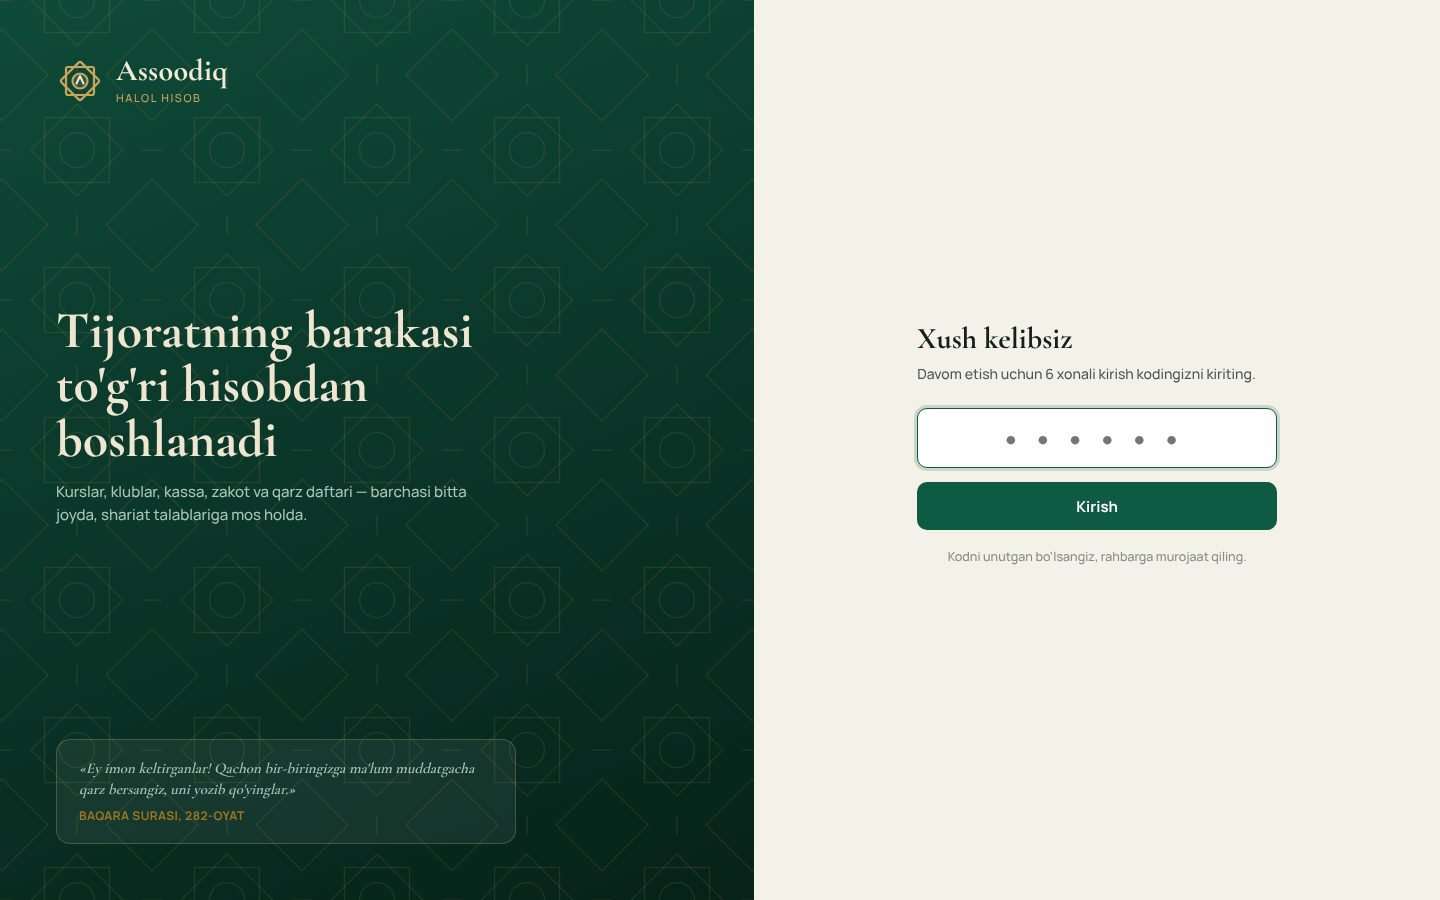
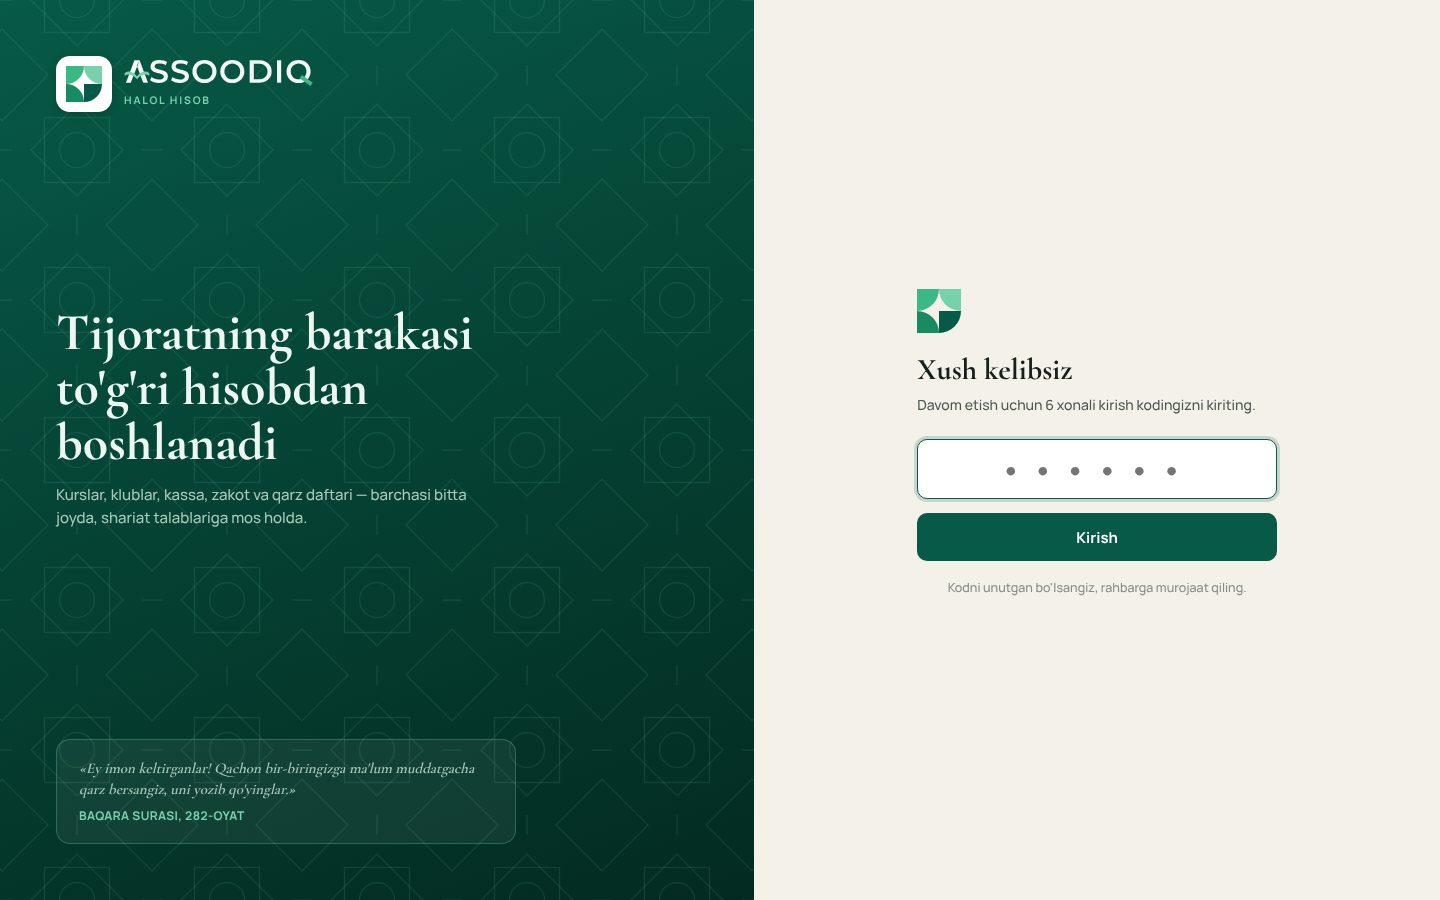
feat(brand): Assoodiq logotipi va brend ranglari
- Logo vektor (SVG) ko'rinishda qayta chizildi: belgi, yozuv (to'q/oq), favicon,
  apple-touch-icon; yozuv shablonga inline qo'yiladi va mavzuga moslashadi
- Yon panel, mobil sarlavha va kirish sahifasida yangi logo
- Brend ranglari logodan olindi (#065A47, #188B63, #3CB885, #78D1AB);
  yon panel urg'usi oltindan yalpiz yashilga o'tdi
- scripts/make_logo.py — logotip generatori; README va skrinshotlar yangilandi

Claude-Session: https://claude.ai/code/session_01DkcMtNmmPnFdSFcGHH43mz

diff --git a/static/css/app.css b/static/css/app.css
@@ -10,10 +10,12 @@
   --txt: #15201B;
   --txt2: #4B5852;
   --txt3: #848E88;
-  --brand: #0F5A43;
-  --brand-strong: #0A4131;
-  --brand-bg: #E2EEE8;
-  --brand-txt: #0E5841;
+  --brand: #065A47;
+  --brand-strong: #04473A;
+  --brand-bg: #E0F1E9;
+  --brand-txt: #065A47;
+  --mint: #78D1AB;
+  --logo-txt: #065A47;
   --gold: #9C7426;
   --gold-soft: #C9A45C;
   --gold-bg: #F4EBD7;
@@ -25,12 +27,12 @@
   --chart-in: #108A60;
   --chart-out: #B8801C;
   --grid: #ECE6DA;
-  --hero1: #0F5A43;
-  --hero2: #0A4131;
-  --side-bg: #0C3B2D;
-  --side-bg2: #082C21;
-  --side-txt: #D9E7E0;
-  --side-txt2: #8FB3A3;
+  --hero1: #0A6650;
+  --hero2: #054536;
+  --side-bg: #064A3A;
+  --side-bg2: #033227;
+  --side-txt: #DCEDE5;
+  --side-txt2: #93BFAC;
   --shadow: 0 1px 2px rgba(20, 35, 28, .05), 0 4px 16px rgba(20, 35, 28, .05);
   --shadow-lg: 0 10px 40px rgba(10, 30, 22, .18);
   --r: 14px;
@@ -45,12 +47,12 @@
     --bg: #0A1310; --surface: #101C17; --surface2: #15241E; --surface3: #1B2D26;
     --line: #20332B; --line2: #2A4137;
     --txt: #E8EFEB; --txt2: #A7B6AF; --txt3: #6F8179;
-    --brand: #1E8A64; --brand-strong: #26A075; --brand-bg: #12352A; --brand-txt: #5DC69E;
+    --brand: #188B63; --brand-strong: #1F9E72; --brand-bg: #10362B; --brand-txt: #6CCBA2; --logo-txt: #E8F2EC;
     --gold: #D2A653; --gold-soft: #B8904A; --gold-bg: #2B2414;
     --ok: #4CC08A; --ok-bg: #12301F; --bad: #EE7B69; --bad-bg: #3A1A15;
     --warn: #E0B25A; --warn-bg: #2E2410; --info: #7DB0DD; --info-bg: #14263A;
     --chart-in: #22A06F; --chart-out: #BA8724; --grid: #1C2C25;
-    --side-bg: #081A14; --side-bg2: #05120D; --hero1: #135740; --hero2: #0B3527;
+    --side-bg: #06231B; --side-bg2: #031510; --hero1: #0B5C48; --hero2: #063A2D;
     --shadow: 0 1px 2px rgba(0, 0, 0, .3); --shadow-lg: 0 10px 40px rgba(0, 0, 0, .5);
     color-scheme: dark;
   }
@@ -59,12 +61,12 @@
   --bg: #0A1310; --surface: #101C17; --surface2: #15241E; --surface3: #1B2D26;
   --line: #20332B; --line2: #2A4137;
   --txt: #E8EFEB; --txt2: #A7B6AF; --txt3: #6F8179;
-  --brand: #1E8A64; --brand-strong: #26A075; --brand-bg: #12352A; --brand-txt: #5DC69E;
+  --brand: #188B63; --brand-strong: #1F9E72; --brand-bg: #10362B; --brand-txt: #6CCBA2; --logo-txt: #E8F2EC;
   --gold: #D2A653; --gold-soft: #B8904A; --gold-bg: #2B2414;
   --ok: #4CC08A; --ok-bg: #12301F; --bad: #EE7B69; --bad-bg: #3A1A15;
   --warn: #E0B25A; --warn-bg: #2E2410; --info: #7DB0DD; --info-bg: #14263A;
   --chart-in: #22A06F; --chart-out: #BA8724; --grid: #1C2C25;
-  --side-bg: #081A14; --side-bg2: #05120D; --hero1: #135740; --hero2: #0B3527;
+  --side-bg: #06231B; --side-bg2: #031510; --hero1: #0B5C48; --hero2: #063A2D;
   --shadow: 0 1px 2px rgba(0, 0, 0, .3); --shadow-lg: 0 10px 40px rgba(0, 0, 0, .5);
   color-scheme: dark;
 }
@@ -97,10 +99,16 @@ h1, h2, h3, h4 { margin: 0; font-weight: 700; }
     linear-gradient(180deg, var(--side-bg), var(--side-bg2));
   color: var(--side-txt); padding: 22px 14px 16px;
 }
-.brand { display: flex; align-items: center; gap: 12px; padding: 4px 10px 22px; }
-.brand-mark { width: 40px; height: 40px; flex: none; }
-.brand-name { font: 700 24px/1 var(--display); letter-spacing: .3px; color: #F3EBD8; }
-.brand-sub { font-size: 11px; letter-spacing: 1.6px; text-transform: uppercase; color: var(--gold-soft); margin-top: 4px; }
+.brand { display: flex; align-items: center; gap: 12px; padding: 2px 8px 22px; }
+.brand-tile { width: 42px; height: 42px; flex: none; border-radius: 11px; background: #fff; display: grid; place-items: center; box-shadow: 0 2px 8px rgba(0, 0, 0, .18); }
+.brand-tile img { width: 28px; height: 28px; display: block; }
+.brand-txt { min-width: 0; }
+.wordmark { display: block; height: auto; }
+.wordmark .wm-t { fill: var(--logo-txt); }
+.wordmark .wm-a1 { fill: #78D1AB; }
+.wordmark .wm-a2 { fill: #3CB885; }
+.side .wordmark, .login-art .wordmark { --logo-txt: #F2F7F4; width: 138px; }
+.brand-sub { font-size: 10.5px; letter-spacing: 1.8px; text-transform: uppercase; color: var(--mint, #78D1AB); margin-top: 6px; font-weight: 700; }
 .nav { display: flex; flex-direction: column; gap: 2px; flex: 1; overflow-y: auto; }
 .nav-h { font-size: 10.5px; letter-spacing: 1.4px; text-transform: uppercase; color: var(--side-txt2); padding: 14px 12px 6px; opacity: .8; }
 .nav a {
@@ -109,12 +117,12 @@ h1, h2, h3, h4 { margin: 0; font-weight: 700; }
 }
 .nav a .ic { color: var(--side-txt2); }
 .nav a:hover { background: rgba(255, 255, 255, .06); }
-.nav a.on { background: rgba(201, 164, 92, .16); color: #FFF6E2; box-shadow: inset 2px 0 0 var(--gold-soft); }
-.nav a.on .ic { color: var(--gold-soft); }
+.nav a.on { background: rgba(120, 209, 171, .14); color: #FFFFFF; box-shadow: inset 2px 0 0 #78D1AB; }
+.nav a.on .ic { color: #78D1AB; }
 .nav .badge { margin-left: auto; min-width: 20px; padding: 0 6px; height: 20px; border-radius: 10px; background: rgba(255,255,255,.1); color: var(--side-txt); font-size: 11.5px; display: grid; place-items: center; }
 .nav .badge.hot { background: #C2503D; color: #fff; }
 .side-foot { border-top: 1px solid rgba(255, 255, 255, .08); padding: 12px 6px 0; display: flex; align-items: center; gap: 10px; }
-.avatar { width: 34px; height: 34px; border-radius: 50%; background: rgba(201, 164, 92, .22); color: #F3E3BE; display: grid; place-items: center; font-weight: 700; font-size: 13px; flex: none; }
+.avatar { width: 34px; height: 34px; border-radius: 50%; background: rgba(120, 209, 171, .2); color: #D8F3E6; display: grid; place-items: center; font-weight: 700; font-size: 13px; flex: none; }
 .side-foot .who { flex: 1; min-width: 0; }
 .side-foot .who b { display: block; font-size: 13px; white-space: nowrap; overflow: hidden; text-overflow: ellipsis; }
 .side-foot .who span { font-size: 11.5px; color: var(--side-txt2); }
@@ -358,10 +366,15 @@ details.more .menu { position: absolute; right: 0; top: calc(100% + 4px); backgr
 
 /* Kirish sahifasi */
 .login { min-height: 100vh; display: grid; grid-template-columns: 1.1fr 1fr; }
-.login-art { background: url("../img/pattern.svg") center/150px, linear-gradient(160deg, #0F4A38, #062219); color: #EFE6D2; padding: 56px; display: flex; flex-direction: column; justify-content: space-between; }
+.login-art { background: url("../img/pattern.svg") center/150px, linear-gradient(160deg, #075A47, #032A20); color: #EEF6F2; padding: 56px; display: flex; flex-direction: column; justify-content: space-between; }
 .login-art h1 { font: 700 52px/1.05 var(--display); max-width: 440px; }
-.login-art p { color: #A9C4B8; max-width: 420px; font-size: 15px; }
-.login-art .ayah { background: rgba(255, 255, 255, .06); border-color: rgba(201, 164, 92, .3); color: #EFE6D2; max-width: 460px; }
+.login-brand { padding: 0; }
+.login-brand .brand-tile { width: 56px; height: 56px; border-radius: 14px; }
+.login-brand .brand-tile img { width: 36px; height: 36px; }
+.login-brand .wordmark { width: 190px; }
+.login-mark { width: 44px; height: 44px; display: block; margin-bottom: 18px; }
+.login-art p { color: #A9C9BB; max-width: 420px; font-size: 15px; }
+.login-art .ayah { background: rgba(255, 255, 255, .06); border-color: rgba(120, 209, 171, .3); color: #EEF6F2; max-width: 460px; }
 .login-form { display: grid; place-items: center; padding: 32px; }
 .login-box { width: min(360px, 100%); }
 .login-box h2 { font: 700 30px var(--display); }
@@ -385,7 +398,9 @@ details.more .menu { position: absolute; right: 0; top: calc(100% + 4px); backgr
   body.nav-open::after { content: ""; position: fixed; inset: 0; background: rgba(6, 20, 15, .45); z-index: 55; }
   .main { padding: 16px 16px 96px; }
   .topbar { display: flex; align-items: center; gap: 10px; margin: -4px 0 14px; }
-  .topbar .brand-name { color: var(--txt); font-size: 22px; }
+  .topbar-logo { display: flex; align-items: center; gap: 10px; }
+  .topbar-logo img { width: 30px; height: 30px; }
+  .topbar-logo .wordmark { width: 118px; }
   .topbar .icon-btn { color: var(--txt2); border: 1px solid var(--line); background: var(--surface); }
   .bottom-nav { display: grid; grid-template-columns: repeat(5, 1fr); position: fixed; left: 0; right: 0; bottom: 0; z-index: 50; background: var(--surface); border-top: 1px solid var(--line); padding: 6px 4px calc(6px + env(safe-area-inset-bottom)); }
   .bottom-nav a, .bottom-nav button { display: flex; flex-direction: column; align-items: center; gap: 3px; font: 700 10.5px var(--font); color: var(--txt3); padding: 4px 0; background: none; border: 0; }
@@ -430,3 +445,4 @@ details.more .menu { position: absolute; right: 0; top: calc(100% + 4px); backgr
   .kv b { font-size: 13.5px; }
   .month-nav span { min-width: 104px; }
 }
+.login-art .ayah small { color: #78D1AB; }

diff --git a/templates/base.html b/templates/base.html
@@ -6,10 +6,13 @@
   <meta name="viewport" content="width=device-width, initial-scale=1, viewport-fit=cover">
   <title>{% block title %}{% endblock %} · Assoodiq</title>
   <link rel="icon" href="{{ url_for('static', filename='img/favicon.svg') }}" type="image/svg+xml">
+  <link rel="icon" href="{{ url_for('static', filename='img/favicon-32.png') }}" sizes="32x32" type="image/png">
+  <link rel="apple-touch-icon" href="{{ url_for('static', filename='img/apple-touch-icon.png') }}">
+  <meta name="theme-color" content="#065A47">
   <link rel="preconnect" href="https://fonts.googleapis.com">
   <link rel="preconnect" href="https://fonts.gstatic.com" crossorigin>
   <link href="https://fonts.googleapis.com/css2?family=Cormorant+Garamond:wght@600;700&family=Manrope:wght@500;600;700;800&display=swap" rel="stylesheet">
-  <link rel="stylesheet" href="{{ url_for('static', filename='css/app.css') }}?v=1">
+  <link rel="stylesheet" href="{{ url_for('static', filename='css/app.css') }}?v=2">
   <script>
     try { var t = localStorage.getItem('theme'); if (t) document.documentElement.dataset.theme = t; } catch (e) {}
   </script>
@@ -19,9 +22,9 @@
 {% set ep = request.endpoint or '' %}
 <div class="shell">
   <aside class="side" id="side">
-    <a class="brand" href="/">
-      <img class="brand-mark" src="{{ url_for('static', filename='img/mark.svg') }}" alt="">
-      <div><div class="brand-name">{{ org_name }}</div><div class="brand-sub">Halol hisob</div></div>
+    <a class="brand" href="/" aria-label="Assoodiq">
+      <span class="brand-tile"><img src="{{ url_for('static', filename='img/mark.svg') }}" alt=""></span>
+      <div class="brand-txt">{% include "partials/wordmark.svg" %}<div class="brand-sub">Halol hisob</div></div>
     </a>
     <nav class="nav">
       {% if can('main') %}<a href="{{ url_for('main.dashboard') }}" class="{{ 'on' if ep == 'main.dashboard' }}">{{ ui.icon('dashboard') }} Bosh sahifa</a>{% endif %}
@@ -53,8 +56,7 @@
     <div class="wrap">
       <div class="topbar">
         <button class="icon-btn" type="button" data-nav-open>{{ ui.icon('menu') }}</button>
-        <img class="brand-mark" src="{{ url_for('static', filename='img/mark.svg') }}" alt="" style="width:30px;height:30px;filter:brightness(.8)">
-        <div class="brand-name">{{ org_name }}</div>
+        <a class="topbar-logo" href="/" aria-label="Assoodiq"><img src="{{ url_for('static', filename='img/mark.svg') }}" alt="">{% include "partials/wordmark.svg" %}</a>
       </div>
       {% block content %}{% endblock %}
     </div>
@@ -74,7 +76,7 @@
 <div class="flashes">
   {% for cat, msg in get_flashed_messages(with_categories=true) %}<div class="flash {{ cat }}">{{ msg }}</div>{% endfor %}
 </div>
-<script src="{{ url_for('static', filename='js/app.js') }}?v=1"></script>
+<script src="{{ url_for('static', filename='js/app.js') }}?v=2"></script>
 {% block scripts %}{% endblock %}
 </body>
 </html>

diff --git a/templates/pages/login.html b/templates/pages/login.html
@@ -3,9 +3,9 @@
 {% block body %}
 <div class="login">
   <div class="login-art">
-    <div class="brand" style="padding:0">
-      <img class="brand-mark" src="{{ url_for('static', filename='img/mark.svg') }}" alt="" style="width:48px;height:48px">
-      <div><div class="brand-name" style="font-size:30px">Assoodiq</div><div class="brand-sub">Halol hisob</div></div>
+    <div class="brand login-brand" aria-label="Assoodiq">
+      <span class="brand-tile"><img src="{{ url_for('static', filename='img/mark.svg') }}" alt=""></span>
+      <div class="brand-txt">{% include "partials/wordmark.svg" %}<div class="brand-sub">Halol hisob</div></div>
     </div>
     <div>
       <h1>Tijoratning barakasi to'g'ri hisobdan boshlanadi</h1>
@@ -18,6 +18,7 @@
   </div>
   <div class="login-form">
     <form class="login-box" method="post">
+      <img class="login-mark" src="{{ url_for('static', filename='img/mark.svg') }}" alt="">
       <h2>Xush kelibsiz</h2>
       <p class="muted" style="margin:6px 0 24px">Davom etish uchun 6 xonali kirish kodingizni kiriting.</p>
       <input class="input code-in" name="code" inputmode="numeric" maxlength="6" autocomplete="one-time-code" autofocus placeholder="••••••" required>

diff --git a/scripts/make_logo.py b/scripts/make_logo.py
@@ -1,0 +1,106 @@
+"""Assoodiq logotipini vektor (SVG) ko'rinishda yaratish.
+
+    python scripts/make_logo.py Montserrat-SemiBold.ttf static/img templates/partials/wordmark.svg
+
+Yozuv Montserrat 600 harflaridan, A va Q urg'ulari qo'lda chiziladi.
+"""
+import math
+import sys
+from fontTools.ttLib import TTFont
+from fontTools.pens.svgPathPen import SVGPathPen
+from fontTools.pens.boundsPen import BoundsPen
+
+FONT = sys.argv[1]
+OUT = sys.argv[2]
+f = TTFont(FONT)
+gs = f.getGlyphSet()
+cmap = f.getBestCmap()
+hmtx = f["hmtx"]
+
+def glyph(ch):
+    name = cmap[ord(ch)]
+    pen = SVGPathPen(gs)
+    gs[name].draw(pen)
+    bp = BoundsPen(gs); gs[name].draw(bp)
+    return pen.getCommands(), hmtx[name][0], bp.bounds
+
+CAP = 700
+_, _, ib = glyph("I")
+STEM = ib[2] - ib[0]             # shrift ustuni qalinligi
+TRACK = 28
+
+DARK, MID, GREEN, LIGHT = "#065A47", "#188B63", "#3CB885", "#78D1AB"
+
+def wordmark(text_color, a_accent, q_accent):
+    parts = []
+    x = 0
+    # A: ko'ndalang chiziqsiz Λ + ochiq kitob shaklidagi urg'u
+    aw = 690
+    s = STEM
+    apex = aw / 2
+    left = f"M{0},{0} L{apex - s*0.62},{CAP} L{apex + s*0.62},{CAP} L{s*1.15},{0} Z"
+    right = f"M{aw},{0} L{apex + s*0.62},{CAP} L{apex - s*0.05},{CAP - s*1.25} L{aw - s*1.15},{0} Z"
+    parts.append(f'<path fill="{text_color}" d="{left} {right}"/>')
+    # kitob: ikki varaq, o'rtada pastga egilgan
+    by = 230
+    book = (f"M{-40},{by + 70} C{80},{by + 150} {200},{by + 130} {apex},{by - 30} "
+            f"C{aw - 200},{by + 130} {aw - 80},{by + 150} {aw + 40},{by + 70} "
+            f"L{aw + 40},{by - 15} C{aw - 80},{by + 60} {aw - 200},{by + 40} {apex},{by - 120} "
+            f"C{200},{by + 40} {80},{by + 60} {-40},{by - 15} Z")
+    parts.append(f'<path fill="{a_accent}" d="{book}"/>')
+    x += aw + TRACK
+    for ch in "SSOODI":
+        d, adv, _ = glyph(ch)
+        parts.append(f'<path fill="{text_color}" transform="translate({x},0)" d="{d}"/>')
+        x += adv + TRACK
+    d, adv, b = glyph("O")
+    parts.append(f'<path fill="{text_color}" transform="translate({x},0)" d="{d}"/>')
+    # Q dumi: O ichidan pastga-o'ngga chiquvchi yashil chiziq
+    cx = x + (b[0] + b[2]) / 2
+    ox, oy = x + b[2], b[1]
+    t = STEM * 0.95
+    x1, y1 = cx + 70, 190
+    x2, y2 = ox + 30, oy - 45
+    ang = math.atan2(y2 - y1, x2 - x1)
+    nx, ny = -math.sin(ang) * t / 2, math.cos(ang) * t / 2
+    tail = f"M{x1+nx},{y1+ny} L{x2+nx},{y2+ny} L{x2-nx},{y2-ny} L{x1-nx},{y1-ny} Z"
+    parts.append(f'<path fill="{q_accent}" d="{tail}"/>')
+    x += adv
+    width = x + 60
+    return parts, width
+
+def svg_wordmark(text_color, a_accent, q_accent):
+    parts, width = wordmark(text_color, a_accent, q_accent)
+    top, bottom = CAP + 40, -130
+    h = top - bottom
+    return (f'<svg xmlns="http://www.w3.org/2000/svg" viewBox="-60 0 {width + 60:.0f} {h}" role="img" aria-label="Assoodiq">'
+            f'<g transform="translate(0,{top}) scale(1,-1)">' + "".join(parts) + "</g></svg>")
+
+# Belgi: uchta chorak doira tashqi burchakdan chiziladi — orasida to'rt qirrali
+# yulduz ochiq qoladi; to'rtinchi (to'q) bo'lak markazdan chizilgan chorak doira.
+def quarter(cx, cy, color):
+    # markazi (cx,cy) burchakda, radiusi 24, kvadrat ichidagi chorak doira
+    sx = 24 if cx == 0 else -24
+    sy = 24 if cy == 0 else -24
+    sweep = 1 if (sx > 0) == (sy > 0) else 0
+    return f'<path fill="{color}" d="M{cx},{cy}H{cx+sx}A24,24 0 0 {sweep} {cx},{cy+sy}Z"/>'
+
+mark = (quarter(0, 0, GREEN) + quarter(48, 0, LIGHT) + quarter(0, 48, MID)
+        + f'<path fill="{DARK}" d="M24,24H48A24,24 0 0 1 24,48Z"/>')
+mark_svg = f'<svg xmlns="http://www.w3.org/2000/svg" viewBox="0 0 48 48" role="img" aria-label="Assoodiq">{mark}</svg>'
+
+open(f"{OUT}/mark.svg", "w").write(mark_svg)
+open(f"{OUT}/wordmark.svg", "w").write(svg_wordmark(DARK, LIGHT, GREEN))
+open(f"{OUT}/wordmark-light.svg", "w").write(svg_wordmark("#F2F7F4", LIGHT, GREEN))
+# Ilova ikonkasi: oq plitka ustida belgi (favicon, telefon ekrani)
+icon = (f'<svg xmlns="http://www.w3.org/2000/svg" viewBox="0 0 64 64"><rect width="64" height="64" rx="14" fill="#FFFFFF"/>'
+        f'<g transform="translate(10 10) scale(0.9166)">{mark}</g></svg>')
+open(f"{OUT}/favicon.svg", "w").write(icon)
+print("ok", STEM)
+
+# Shablonga to'g'ridan-to'g'ri qo'yiladigan variant: ranglar CSS'dan (mavzuga moslashadi)
+inline = svg_wordmark("TXT", "AC1", "AC2")
+inline = (inline.replace('xmlns="http://www.w3.org/2000/svg" ', 'class="wordmark" ')
+          .replace('fill="TXT"', 'class="wm-t"').replace('fill="AC1"', 'class="wm-a1"')
+          .replace('fill="AC2"', 'class="wm-a2"'))
+open(sys.argv[3], "w").write(inline)

diff --git a/README.md b/README.md
@@ -107,8 +107,9 @@ tushirishdan oldin Assoodiq'ning shariat maslahatchisi bilan ko'rib chiqing:
 - **Sheriklik hisobi.** Mushoraka va mudoraba asosida ta'sischilar o'rtasida foydani taqsimlash
   (sheriklar soni va nisbatlari aniqlangach).
 - **To'lov tizimlari.** Payme/Click to'lovlarini avtomatik qabul qilish.
-- **Brend.** Logotip va ranglar hozircha vaqtinchalik (sakkiz qirrali yulduz, zumrad va oltin).
-  Assoodiq'ning rasmiy brendbuki bilan almashtiriladi.
+- **Brend.** Assoodiq logotipi vektor (SVG) ko'rinishda qayta chizilgan: `static/img/mark.svg`
+  (belgi), `wordmark.svg` / `wordmark-light.svg` (yozuv), `favicon.svg`. Rasmiy logo fayli
+  (SVG/AI) bo'lsa, shu fayllar bilan almashtirish kifoya. Generator: `scripts/make_logo.py`.
 
 ## Ko'rinishlar
 
